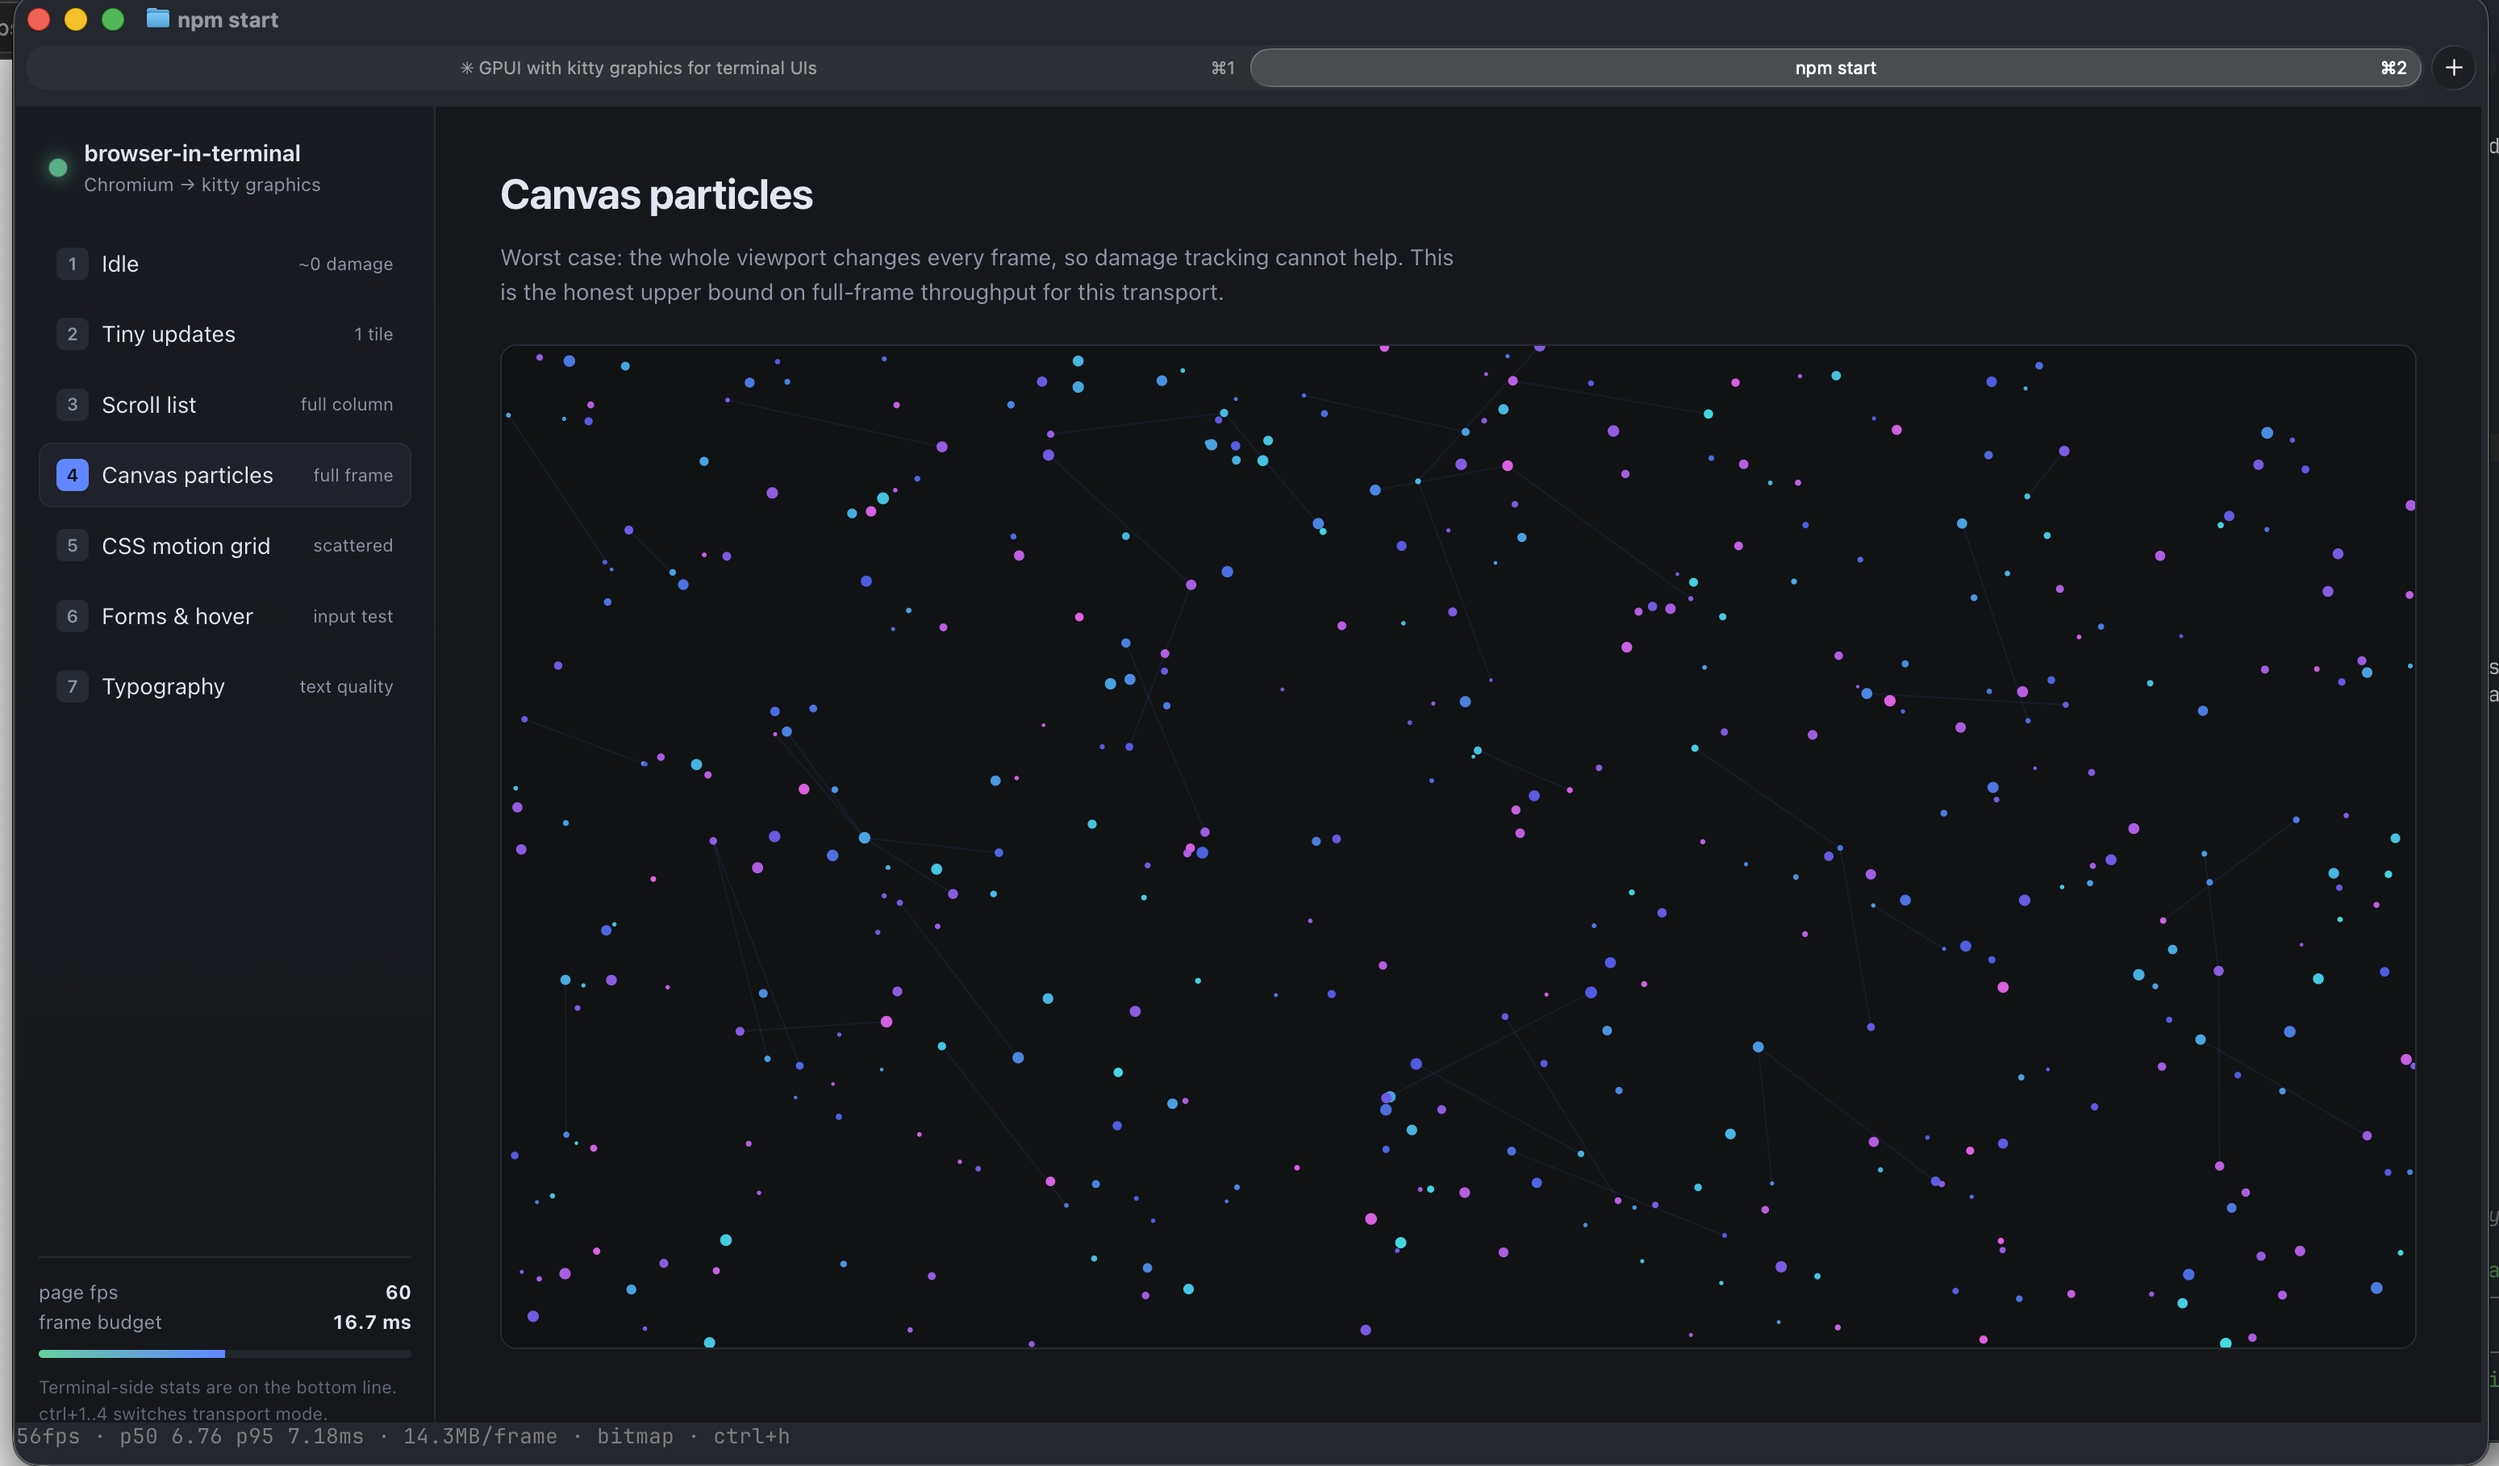
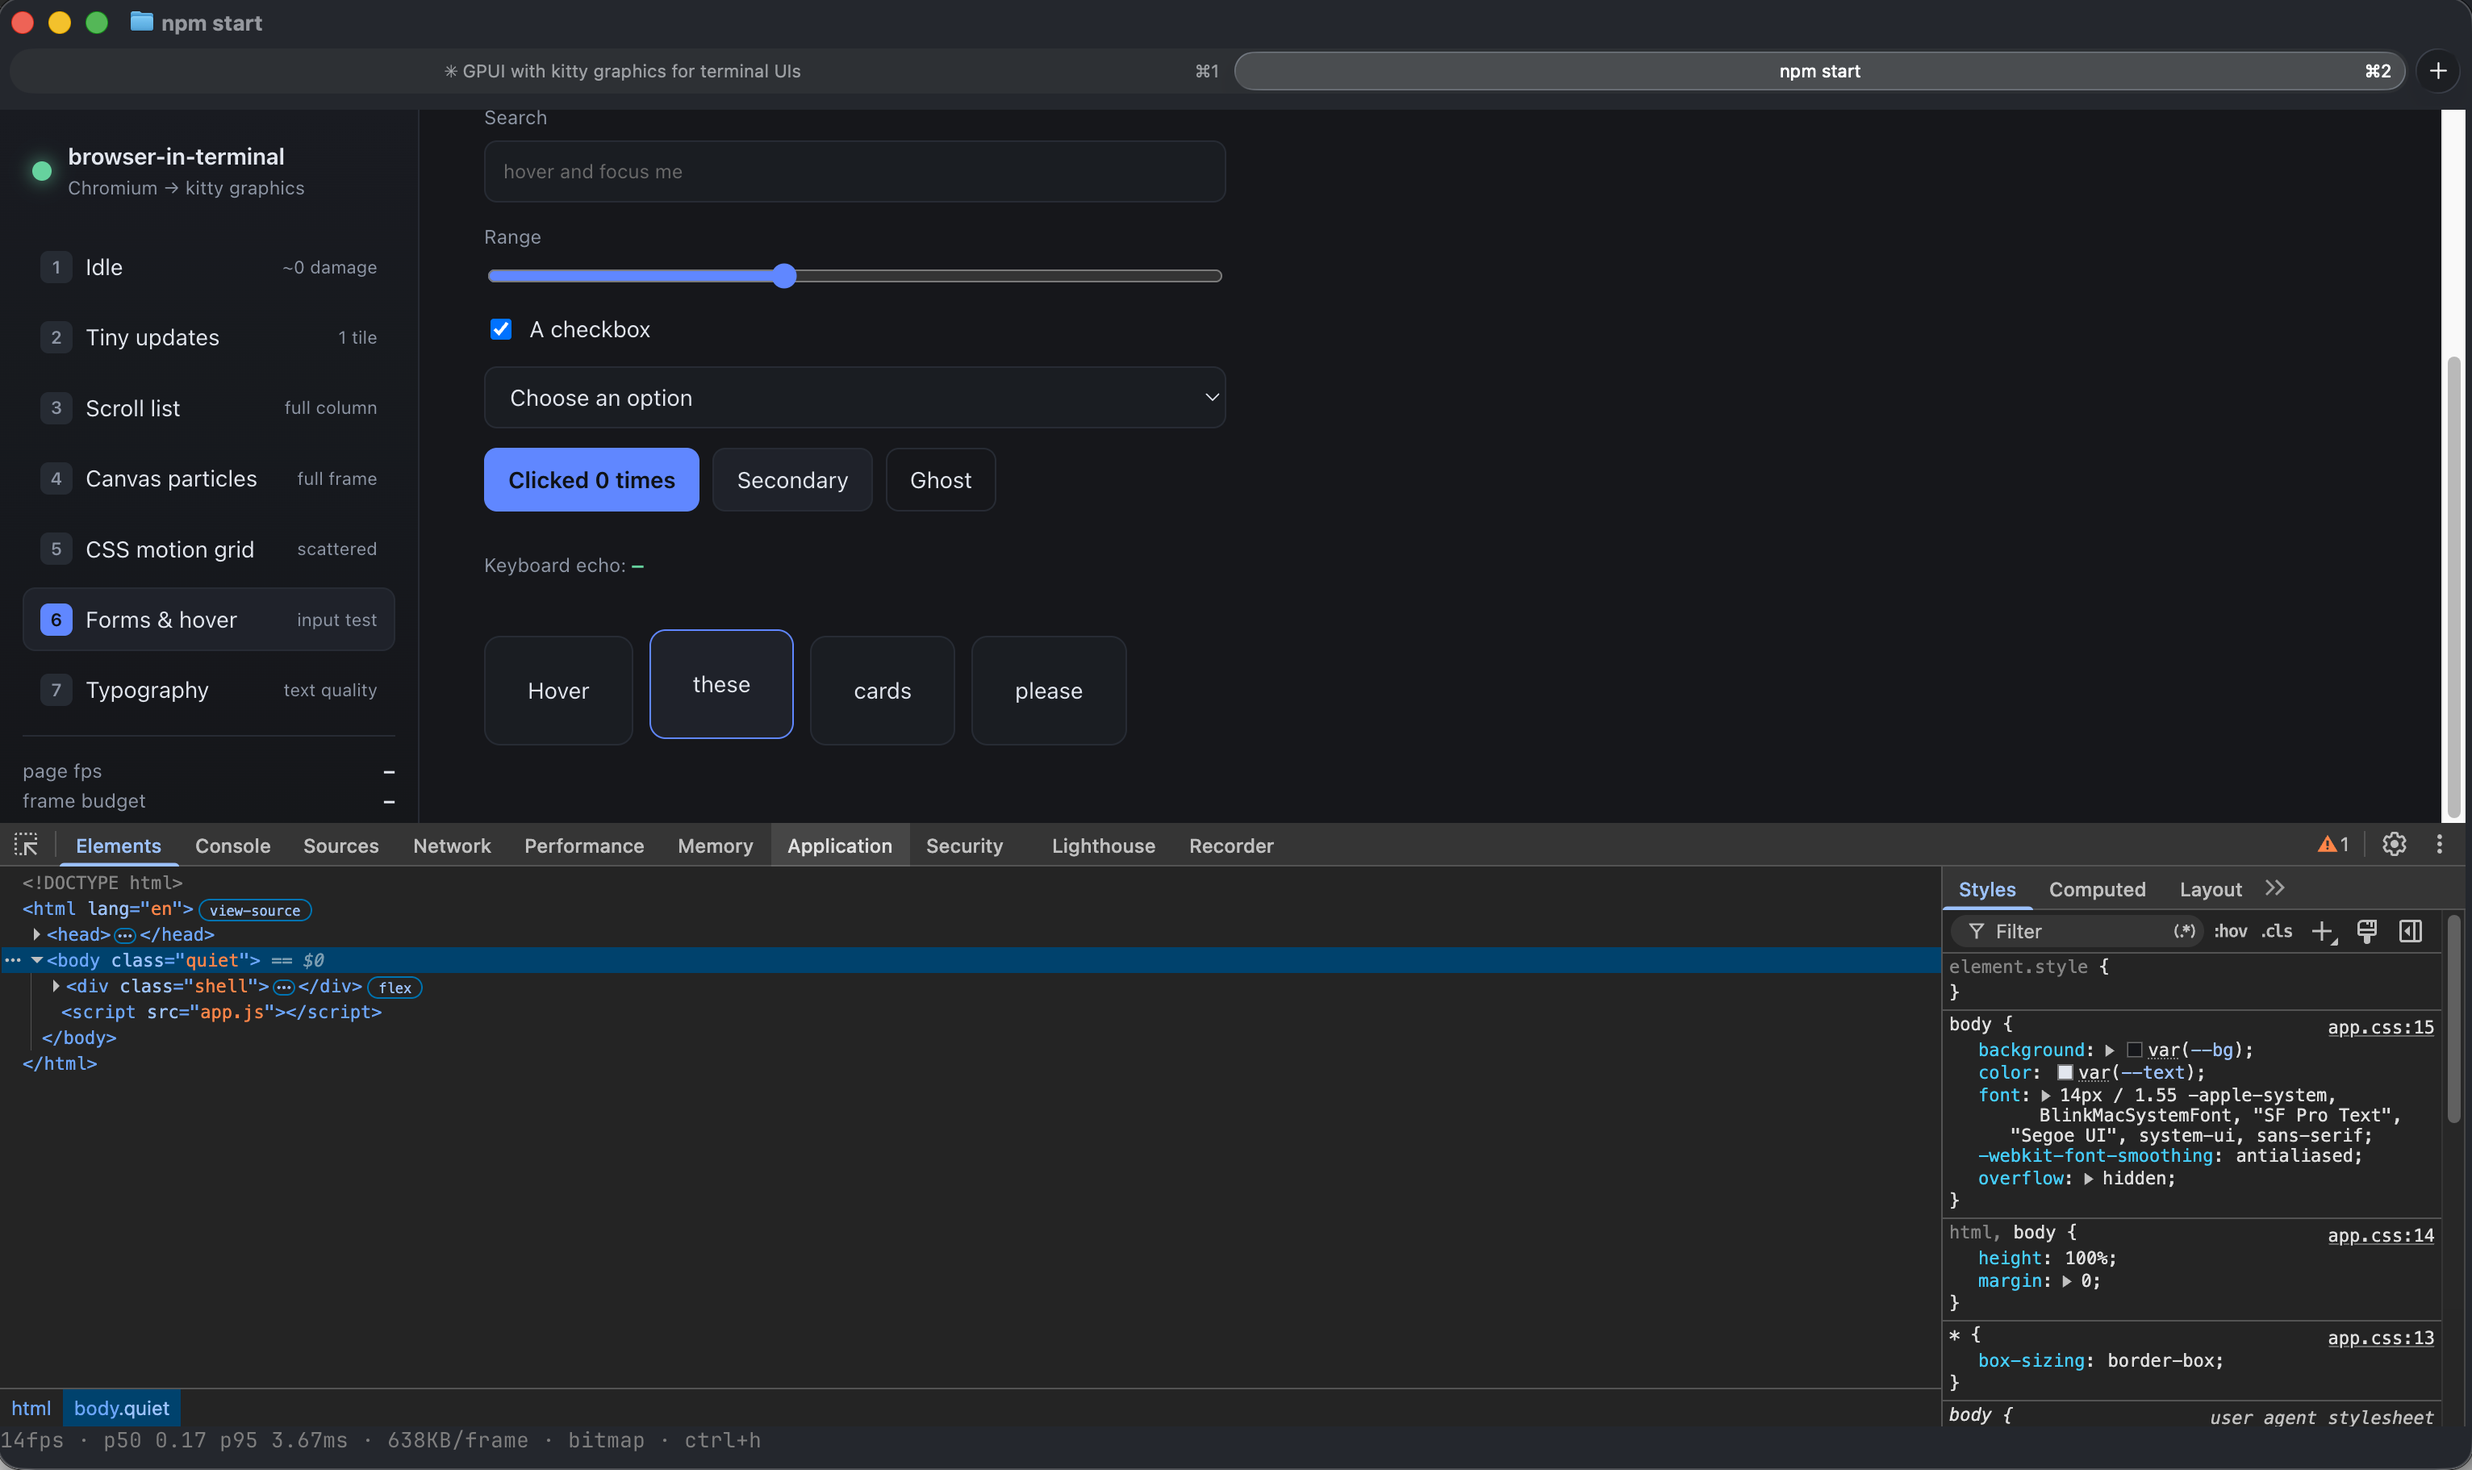
Use the DevTools shot as the hero, keep canvas as the worst case
DevTools rendered in the terminal is the claim a reader is least likely to
believe, and a live DOM tree and Styles pane cannot be mistaken for a video
being blitted the way particles can. Its 638KB/frame also corroborates the
real-Ghostty figure the README already cites, where the canvas shot's
14.3MB/frame needed explaining away.

Canvas particles moves to Headline numbers, where establishing the upper
bound is the subject.

Claude-Session: https://claude.ai/code/session_01KLtzscZsTu9d8827zLQAHs

diff --git a/README.md b/README.md
@@ -4,13 +4,16 @@ Stream a real Electron (Chromium) UI into a terminal that speaks the **kitty gra
 and forward the terminal's mouse and keyboard back into the page — at 60 fps, with DevTools
 rendered inside the terminal.
 
-![Chromium rendering inside Ghostty](docs/hero.png)
+![Chromium and its DevTools rendering inside Ghostty](docs/hero.png)
 
 *That is a terminal.* Everything above the bottom line is Chromium pixels pushed over the kitty
-graphics protocol; the bottom line is real terminal text, drawn on top. The panel shown is
-**Canvas particles** — the deliberate worst case, where the whole viewport changes every frame and
-damage tracking cannot help, which is why the status line reads 14.3 MB/frame. A normal UI costs
-**156 KB**; see [Headline numbers](#headline-numbers).
+graphics protocol — including **DevTools**, docked at the bottom and fully usable: live DOM tree,
+Styles pane, element selection. The bottom line is real terminal text, drawn on top.
+
+It reads `14fps` because nothing on the page is moving. The DOM tree in the shot shows why —
+`<body class="quiet">` is the class that parks animation on non-animating panels, so only the
+frames that hover and focus actually dirtied were drawn. An idle UI costs nothing; that is the
+property the whole design is built around.
 
 ```
 Chromium OSR ─paint(dirtyRect, BGRA)─▶ hash tiles ─▶ changed only ─▶ RGBA ─▶ shm ─▶ terminal
@@ -177,6 +180,12 @@ Application cost at 1600×900, 60 fps cap (`npm run bench`; terminal-side decode
 | canvas particles | 60.0 | 0.61 | 0.74 | 2148 |
 | canvas, shared texture | 60.0 | 0.66 | 0.76 | 2188 |
 | canvas, inline base64 | 60.0 | 14.17 | 15.28 | 484 |
+
+![Canvas particles, the worst case](docs/canvas-worst-case.png)
+
+The worst case, for contrast: **Canvas particles** changes the whole viewport every frame, so
+damage tracking cannot help and the cost jumps to 14.3 MB/frame at a 3098×1818 surface. That panel
+exists precisely to establish the upper bound.
 
 Measured in real Ghostty over 30 s at 1328×1598: shared memory active, frame p50 **0.16 ms**,
 638 KB/frame median, 77.5 MiB/s, 60 fps sustained.
